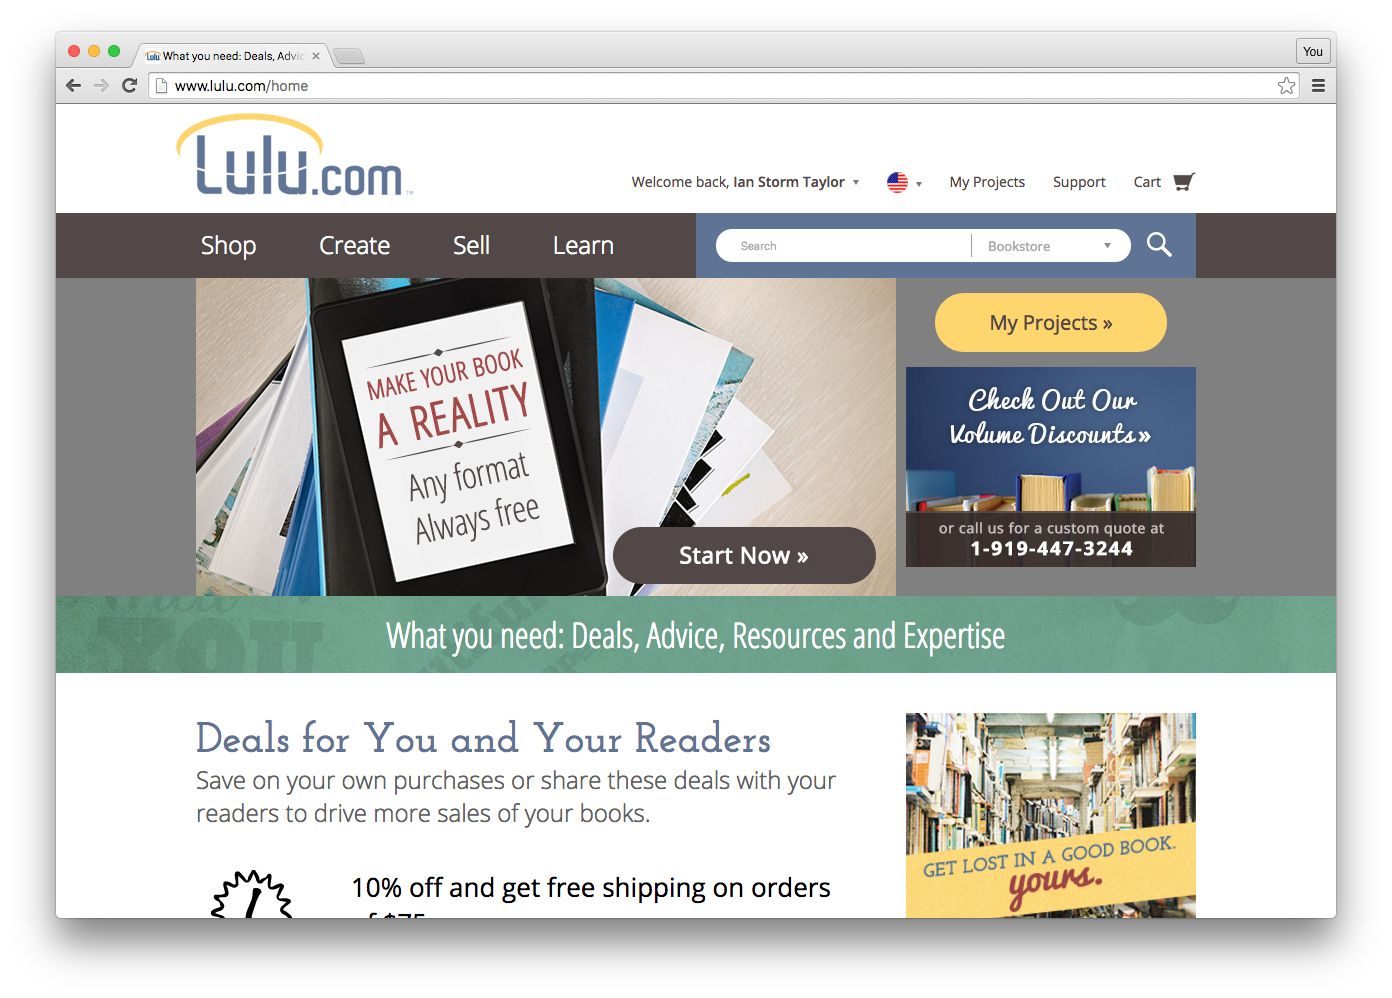
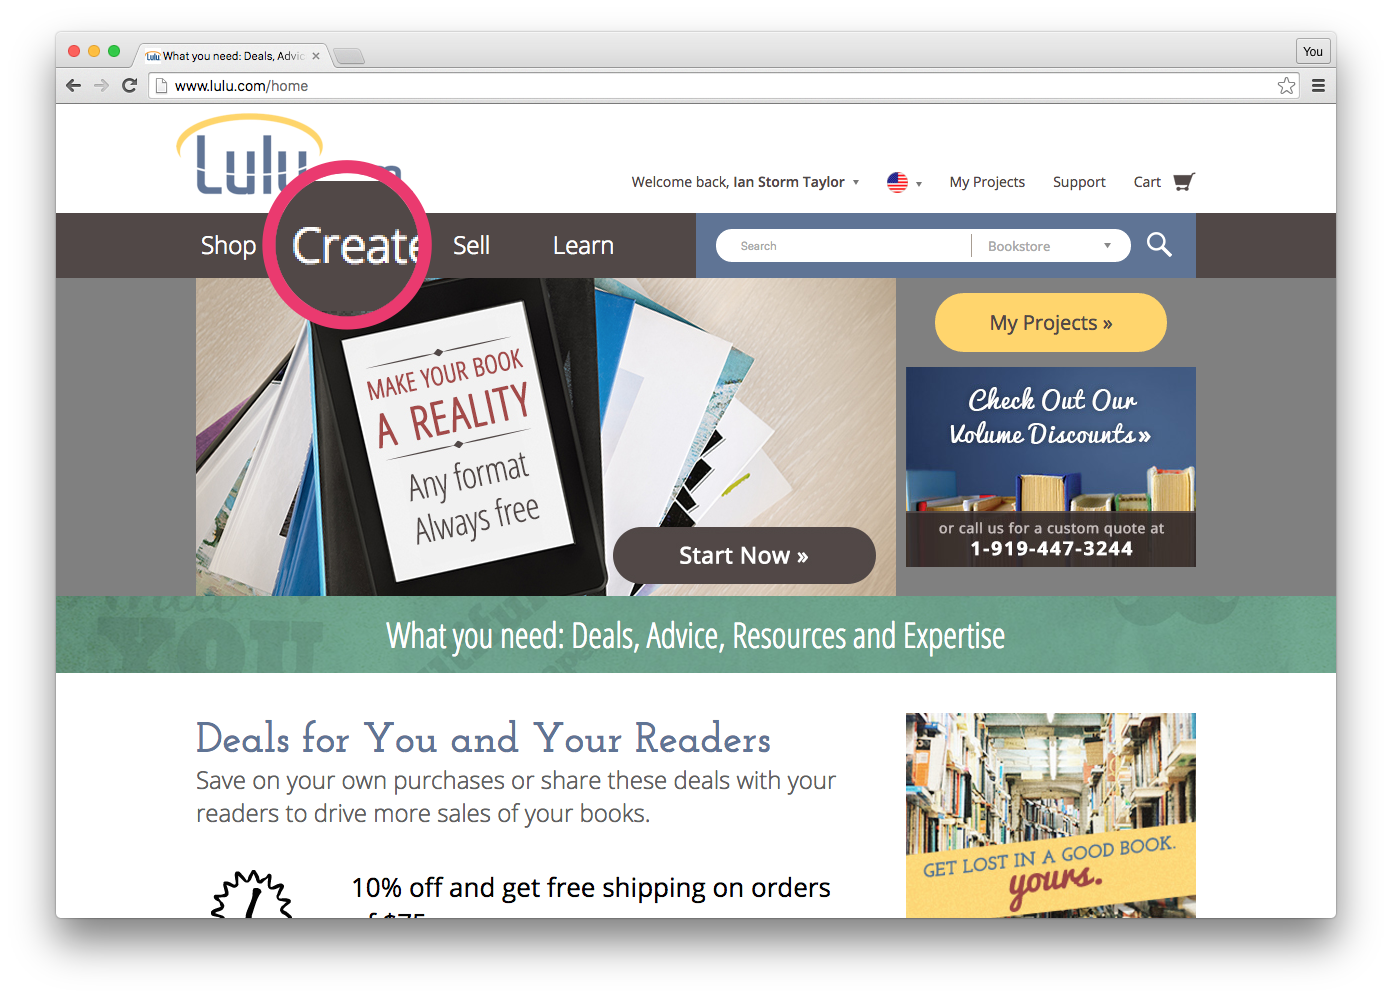
update instructions

Changed region(s): [[0.1853, 0.1553, 0.3089, 0.3417]]

diff --git a/Readme.md b/Readme.md
@@ -1,11 +1,12 @@
 
 ![Harry Potter and the Methods of Rationality](images/title.png)
 
-This repository contains everything you need to make your own real-life, hard copies of every volume of _[Harry Potter and the Methods of Rationality](http://hpmor.com/)_ with [Lulu](http://www.lulu.com/)! 
+This repository contains everything you need to make your own real-life, hard copies of every volume of _[Harry Potter and the Methods of Rationality](http://hpmor.com/)_, with [Lulu](http://www.lulu.com/)! 
 
 Eliezer Yudkowsky, or anyone else, isn't allowed to sell the book, because it's based on J. K. Rowling's copyrighted universe of characters. But, you _can_ create your own private copy of the book with Lulu, a service that prints books on demand, and then order yourself a proof copy. That way, you can experience it on paper!
 
 Want an ebook? Then you don't need this repository! Because that's [already officially supported](http://hpmor.com/).
+
 
 ## Table of Contents
 
@@ -108,9 +109,33 @@ Price: $5.56 (Standard), $7.69 (Premium)
 
 ## Instructions
 
-TODO
+To get your own hard copies of each of the Harry Potter and the Methods of Rationality volumes, I'll walk you through how to print them with Lulu. We're going to use Lulu's "private" feature, so that the books are only visible to you, so that you aren't violating any copyright laws by "profiting" off of the works. (Don't worry, it's easy!)
+
+![](images/00.png)
+
+To start, download a copy of this repository as a ZIP file, and extract it somewhere on your computer.
+
+![](images/0.png)
+
+You should end up with a folder that contains subfolders with the resources needed to create each volume. We'll use these files during the Lulu book creation process.
+
+If you don't have one already, you'll need to create your own account on Lulu first, so you can create and order your own books.
+
+![](images/1.png)
+
+Then, on the homepage, click **Create** and create a new _paperback_ book.
+
+![](images/2.png)
+
+Select the **6" x 9"** book, of either **Standard** or **Premium** quality. I chose Premium paper, but Standard should work just fine as well, and be slightly cheaper.
+
+![](images/3.png)
+
+
+
+
 
 
 ## Thanks
 
-Thanks to [J. K. Rowling](https://en.wikipedia.org/wiki/J._K._Rowling) for creating the entire [Harry Potter](https://en.wikipedia.org/wiki/Harry_Potter) universe, characters, etc. and to [Eliezer Yudkowsky](https://en.wikipedia.org/wiki/Eliezer_Yudkowsky) for writing [Harry Potter and the Methods of Rationality](https://en.wikipedia.org/wiki/Harry_Potter_and_the_Methods_of_Rationality).
+Thanks to [J. K. Rowling](https://en.wikipedia.org/wiki/J._K._Rowling) for creating the entire [Harry Potter](https://en.wikipedia.org/wiki/Harry_Potter) universe, characters, etc. Thanks to [Eliezer Yudkowsky](https://en.wikipedia.org/wiki/Eliezer_Yudkowsky) for writing [Harry Potter and the Methods of Rationality](https://en.wikipedia.org/wiki/Harry_Potter_and_the_Methods_of_Rationality). And thanks to everyone else who has done interesting things with Harry Potter and the Methods of Rationality for the inspiration!
